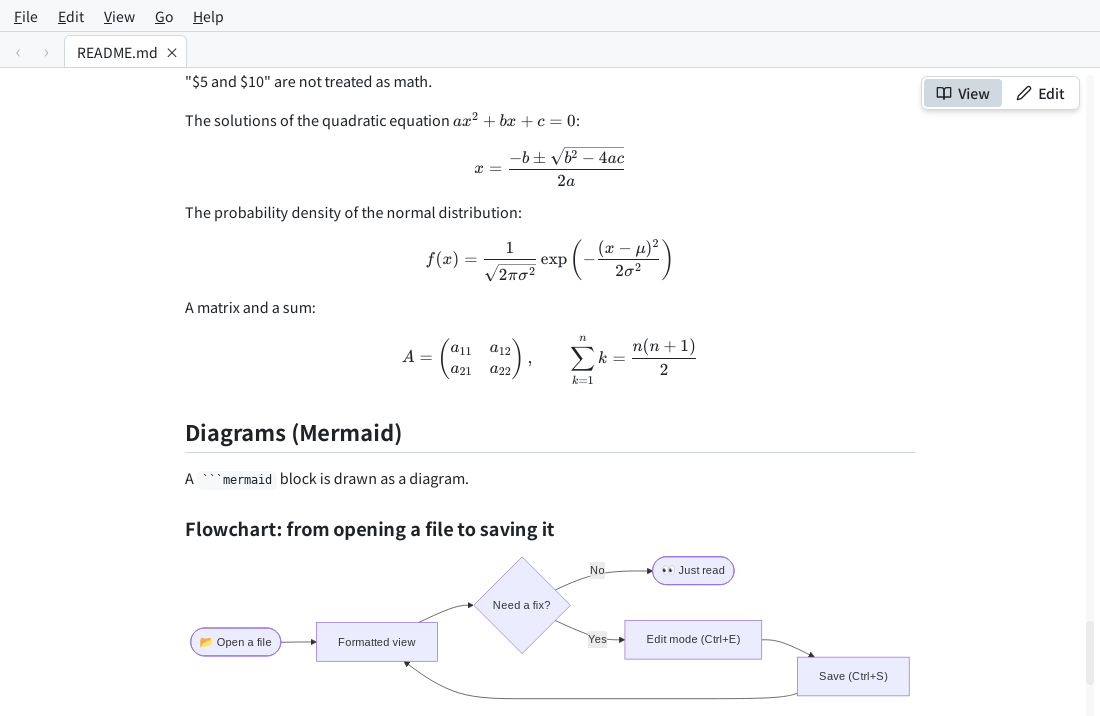
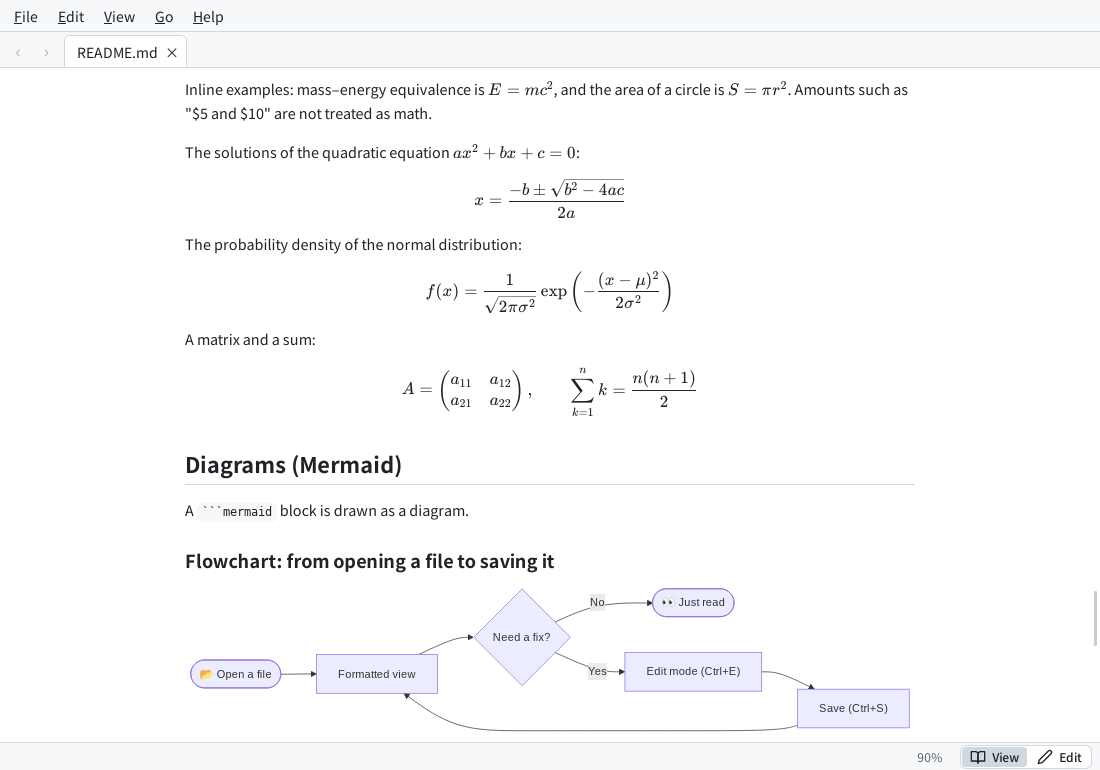
Docs: status bar, retaken screenshots and a demo GIF at the top of the README
Claude-Session: https://claude.ai/code/session_014WACe7tbnv69AqTmDkT8nE

diff --git a/README.ja.md b/README.ja.md
@@ -12,7 +12,7 @@ Markdown を書いたり書き直したりするのは生成AIの仕事。mdview
 - **速い**: Markdown は Rust（[pulldown-cmark](https://github.com/pulldown-cmark/pulldown-cmark)）で変換
 - **余計なものがない**: 読む・ちょっと直すために毎回使う機能だけ。表や Mermaid の図を楽に編集したい、自分の言語に翻訳したい――そうした作業はすべて LLM（生成AI）が得意とするところなので、mdviewer にはそのような編集機能をあえて追加しません
 
-![mdviewer で数式と Mermaid の図を表示しているところ](docs/images/ja/screenshot-math-mermaid.png)
+![mdviewer: 数式と図、表、編集モード、ダークテーマと検索、表示メニュー](docs/images/ja/demo.gif)
 
 使い方は [操作マニュアル](docs/manual/ja/README.md) を参照してください。マニュアルは、表・図・数式・絵文字などの表示見本を兼ねています（上の画面は、このマニュアルを表示したものです）。
 
@@ -37,9 +37,9 @@ Markdown を書いたり書き直したりするのは生成AIの仕事。mdview
 | メニュー | ファイル・編集・表示・移動・ヘルプ。<kbd>Alt</kbd> または <kbd>F10</kbd> でメニューへ移動、<kbd>Alt</kbd>+<kbd>F</kbd> などで直接開く |
 | 言語 | メニューは日本語と英語。OS の言語設定に合わせて自動で選び、「表示」メニューで切り替えられる（選択は次回も維持） |
 | ヘルプ | <kbd>F1</kbd> でショートカット一覧。「ヘルプ → mdviewer について」でバージョン・作者・ライセンス |
-| 編集モードに切替 | <kbd>Ctrl</kbd>+<kbd>E</kbd> または右上のボタン（もう一度押すと、編集内容をビューアに反映して表示） |
+| 編集モードに切替 | <kbd>Ctrl</kbd>+<kbd>E</kbd> または右下のステータスバーにある「表示 \| 編集」スイッチ（表示に戻すと、編集内容をビューアに反映して表示）。編集中のタブには鉛筆の印が付く |
 | 保存 | <kbd>Ctrl</kbd>+<kbd>S</kbd>（元ファイルの改行コード CRLF/LF と BOM を維持）。未保存の間はタイトルに `●` |
-| 拡大・縮小 | <kbd>Ctrl</kbd>+ホイール / <kbd>Ctrl</kbd>+<kbd>+</kbd> <kbd>-</kbd>（<kbd>Ctrl</kbd>+<kbd>0</kbd> で 100%）。倍率は次回も維持 |
+| 拡大・縮小 | <kbd>Ctrl</kbd>+ホイール / <kbd>Ctrl</kbd>+<kbd>+</kbd> <kbd>-</kbd>（<kbd>Ctrl</kbd>+<kbd>0</kbd> で 100%）。倍率はステータスバーに表示（クリックで 100%）し、次回も維持 |
 | 自動再読み込み | ファイルが更新されると表示を自動更新（スクロール位置は維持）。手動は <kbd>F5</kbd>。未保存の編集は上書きしない |
 | リンク | `#見出し` は文書内ジャンプ、`other.md` はビューアで開く、`https://` は既定のブラウザで開く |
 | テーマ（ダークモード） | 「表示」メニューで ライト／ダーク を切り替え（選択は次回も維持）。初回起動時は Windows の設定に合わせて自動で選ぶ。図（Mermaid）の色も切り替わる |

diff --git a/README.md b/README.md
@@ -12,7 +12,7 @@ Your AI writes and rewrites the Markdown; mdviewer shows it as a nicely formatte
 - **Fast**: Markdown is converted in Rust ([pulldown-cmark](https://github.com/pulldown-cmark/pulldown-cmark))
 - **Nothing extra**: only what you use every time you read a file or make a quick fix. Want to edit a table or a Mermaid diagram with ease, or translate a document into your language? Your LLM does all of that well, so mdviewer deliberately adds no such editing features
 
-![mdviewer showing math and a Mermaid diagram](docs/images/screenshot-math-mermaid.png)
+![mdviewer: math and diagrams, tables, edit mode, dark theme and find, the View menu](docs/images/demo.gif)
 
 See the [user guide](docs/manual/README.md) for how to use it. The guide doubles as a sample of what mdviewer can display: tables, diagrams, math, emoji and more (the screen above shows the guide itself).
 
@@ -37,9 +37,9 @@ The screenshots were taken with the Linux build used for development. On Windows
 | Menus | File, Edit, View, Go and Help. <kbd>Alt</kbd> or <kbd>F10</kbd> moves to the menu bar, <kbd>Alt</kbd>+<kbd>F</kbd> etc. opens a menu directly |
 | Language | Menus in English and Japanese, chosen from your system language and switchable in the **View** menu (remembered) |
 | Help | <kbd>F1</kbd> shows the keyboard shortcuts. **Help → About mdviewer** shows the version, author and license |
-| Edit mode | <kbd>Ctrl</kbd>+<kbd>E</kbd> or the button at the top right (press again to see your edits formatted) |
+| Edit mode | <kbd>Ctrl</kbd>+<kbd>E</kbd> or the View \| Edit switch at the bottom right, in the status bar (switch back to see your edits formatted). Tabs being edited are marked with a pencil |
 | Save | <kbd>Ctrl</kbd>+<kbd>S</kbd> (keeps the file's line endings, CRLF / LF, and BOM). The title shows `●` while there are unsaved changes |
-| Zoom | <kbd>Ctrl</kbd>+wheel / <kbd>Ctrl</kbd>+<kbd>+</kbd> <kbd>-</kbd> (<kbd>Ctrl</kbd>+<kbd>0</kbd> for 100%). Remembered |
+| Zoom | <kbd>Ctrl</kbd>+wheel / <kbd>Ctrl</kbd>+<kbd>+</kbd> <kbd>-</kbd> (<kbd>Ctrl</kbd>+<kbd>0</kbd> for 100%). The level is shown in the status bar (click it for 100%) and remembered |
 | Auto reload | Updates the view when the file changes (keeping the scroll position). <kbd>F5</kbd> reloads manually. Unsaved edits are never overwritten |
 | Links | `#heading` jumps within the document, `other.md` opens in mdviewer, `https://` opens in your default browser |
 | Theme (dark mode) | Switch between Light and Dark in the **View** menu (remembered). On the first launch mdviewer picks the one that matches your Windows setting. Diagram (Mermaid) colors follow the theme |

diff --git a/docs/manual/README.md b/docs/manual/README.md
@@ -31,8 +31,8 @@ mdviewer is a small Windows tool for **reading Markdown (`.md`) comfortably and 
 | 2 | Tab bar | The open files. The ← → buttons at the left go back and forward |
 | 3 | Document | The formatted Markdown. <kbd>Ctrl</kbd>+wheel zooms in and out |
 | 4 | Find bar | Shown with <kbd>Ctrl</kbd>+<kbd>F</kbd>. Matches are highlighted |
-| 5 | View / Edit switch | Shows the current mode (shaded). Click the other side to switch between the formatted view and the Markdown text |
-| 6 | Zoom level | Shown briefly when you zoom |
+| 5 | Zoom level | In the status bar at the bottom. Click it to go back to 100% |
+| 6 | View / Edit switch | At the bottom right. Shows the current mode (shaded); click the other side to switch between the formatted view and the Markdown text. Tabs being edited are marked with a pencil |
 
 ## Opening files
 
@@ -71,7 +71,7 @@ Going back also restores the scroll position.
 
 ## Editing and saving
 
-<kbd>Ctrl</kbd>+<kbd>E</kbd> (or the **Edit** button at the top right) switches to edit mode.
+<kbd>Ctrl</kbd>+<kbd>E</kbd> (or **Edit** in the switch at the bottom right) switches to edit mode.
 Press it again to see your edits formatted. <kbd>Ctrl</kbd>+<kbd>S</kbd> saves.
 
 When you write a list, <kbd>Enter</kbd> continues it for you:
@@ -98,7 +98,7 @@ When you write a list, <kbd>Enter</kbd> continues it for you:
 ## Find, zoom, theme and language
 
 - 🔍 **Find**: <kbd>Ctrl</kbd>+<kbd>F</kbd>. <kbd>Enter</kbd> / <kbd>Shift</kbd>+<kbd>Enter</kbd> (or <kbd>F3</kbd> / <kbd>Shift</kbd>+<kbd>F3</kbd>) for the next / previous match. <kbd>Esc</kbd> closes
-- 🔎 **Zoom**: <kbd>Ctrl</kbd>+wheel, <kbd>Ctrl</kbd>+<kbd>+</kbd> / <kbd>Ctrl</kbd>+<kbd>-</kbd>, and <kbd>Ctrl</kbd>+<kbd>0</kbd> for 100%. The zoom level is remembered
+- 🔎 **Zoom**: <kbd>Ctrl</kbd>+wheel, <kbd>Ctrl</kbd>+<kbd>+</kbd> / <kbd>Ctrl</kbd>+<kbd>-</kbd>, and <kbd>Ctrl</kbd>+<kbd>0</kbd> for 100%. The zoom level is shown in the status bar and remembered
 - 🌐 **Language**: the menus are in Japanese and English, chosen from your system language. Change it in **View → Language**
 - ❓ **Help**: <kbd>F1</kbd> shows the keyboard shortcuts. **Help → About mdviewer** shows the version
 - 🌙 **Theme (dark mode)**: switch between Light and Dark in the **View** menu. On the first launch mdviewer picks the one that matches your Windows setting. Your choice is remembered

diff --git a/docs/PLUGINS.md b/docs/PLUGINS.md
@@ -106,7 +106,8 @@ export default myPlugin;
 | `app.addMenu({ id, label, mnemonic, order })` / `app.addMenuItem({ menu, command, group, order? })` | メニューの追加（`menu` プラグインが「ファイル」「編集」「表示」「移動」「ヘルプ」を登録済み）/ コマンドをメニューに置く。`group` が変わる所に区切り線が入る |
 | `app.addBar(Component)` | 画面の上部に並べるバーを登録する（メニューバー、タブバー） |
 | `app.addPane(mode, Component)` | そのモードで表示する画面を登録する。画面はタブごとに作られ、`{ app, tab, active }` を受け取る。タブやモードが変わってもマウントされたままで、`active` で表示・非表示を切り替える |
-| `app.addOverlay(Component)` | 画面の上に重ねる部品を登録する（ボタン、検索バー、ダイアログ、通知など） |
+| `app.addStatusItem(Component, order?)` | 下端のステータスバーに部品を置く（倍率、表示／編集の切替など）。`order` の小さい順に左から並ぶ |
+| `app.addOverlay(Component)` | 本文の上に重ねる部品を登録する（検索バー、ダイアログ、通知など）。読む邪魔になるので、常に表示するものはステータスバーに置く |
 | `app.open(path)` | ユーザーが選んだファイルを開く。開いていればそのタブへ、そうでなければ空のタブか新しいタブに開く |
 | `app.openLink(href)` | 文書からの相対リンクを同じタブに開き、戻る履歴に積む |
 | `app.back()` / `app.forward()` / `app.canGoBack()` / `app.canGoForward()` | タブ内の履歴を戻る / 進む |
@@ -181,10 +182,11 @@ import { useAppVersion } from '../core/useApp';
 function WordCount({ app }: { app: App }) {
   useAppVersion(app);
   if (!app.doc) return null;
-  return <div className="absolute bottom-4 left-4 text-xs text-muted">{app.doc.raw.length} 文字</div>;
+  return <span>{app.doc.raw.length} 文字</span>;
 }
 
-const wordCount: Plugin = { name: 'word-count', setup: (app) => app.addOverlay(WordCount) };
+// ステータスバーの左端（order の小さい方）に置く
+const wordCount: Plugin = { name: 'word-count', setup: (app) => app.addStatusItem(WordCount, 10) };
 export default wordCount;
 ```
 

diff --git a/docs/ARCHITECTURE.md b/docs/ARCHITECTURE.md
@@ -77,7 +77,8 @@
 - **画面はプラグインが差し込む**：`Shell` は次を並べるだけ
   - `addBar` で登録した上部のバー（メニューバー、タブバー）
   - タブごとのパネル。中に `addPane(mode, Component)` で登録した画面（表示・編集）を置き、アクティブなタブのそのモードの画面だけを表示する
-  - `addOverlay` で登録した重ね表示（切替ボタン、検索バー、倍率表示、ダイアログ、通知）
+  - `addOverlay` で登録した重ね表示（検索バー、ダイアログ、通知）
+  - `addStatusItem` で登録した下端のステータスバーの部品（倍率、表示／編集の切替）
 - **タブは非表示でも残す**：タブごとの画面を消さずに隠すだけにして、エディタの元に戻す履歴や描画済みの図を保つ。スクロールはタブの画面ごとに独立していて、位置は `Tab.scroll` に記録し、表示し直すときや履歴で戻ったときに復元する
 - **メニューはコマンドから組み立てる**：各プラグインが `addMenuItem` で自分のコマンドをメニューに置く。表示名は `title`（メッセージのキー）、ショートカットは `keys` から作るので、メニュー・ヘルプ・起動画面の表示がずれない
 - **多言語化**：画面の文字列はすべて `app.t(key)` で辞書から引く。言語は OS の設定（`navigator.languages`）から自動で選び、「表示」メニューで切り替えると `lang:changed` で全体が再描画される

diff --git a/CHANGELOG.md b/CHANGELOG.md
@@ -5,6 +5,12 @@
 
 ## [Unreleased]
 
+### Changed
+- The View / Edit switch moved to a new status bar at the bottom right, so nothing sits over the document or follows the scroll. The zoom level is shown there all the time (click for 100%) instead of a badge over the document. Tabs in edit mode are marked with a pencil
+- 表示／編集の切替スイッチを、下端に新設したステータスバーの右端に移した（本文に重ならず、スクロールにも追随しない）。倍率もステータスバーに常に表示し（クリックで 100%）、本文の上に出ていた倍率表示はなくした。編集中のタブには鉛筆の印を付ける
+- The README opens with an animated demo (GIF) of the main screens; the screenshots show the new status bar
+- README の冒頭に主な画面のデモ（アニメーション GIF）を載せた。スクリーンショットもステータスバー付きの画面に撮り直した
+
 ## [0.2.0] - 2026-09-27
 
 Menus, tabs, back / forward, find, a Japanese / English UI, a light / dark theme and a clearer View / Edit switch. The README and a new user guide (which doubles as a rendering sample) are now in English, with Japanese versions alongside.
